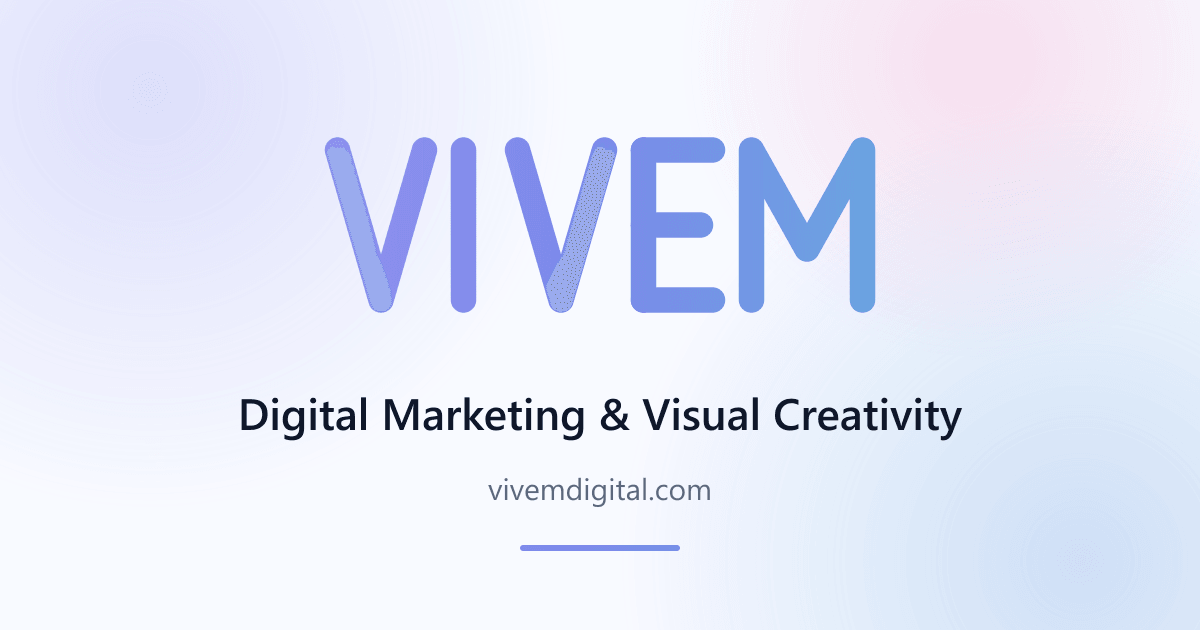
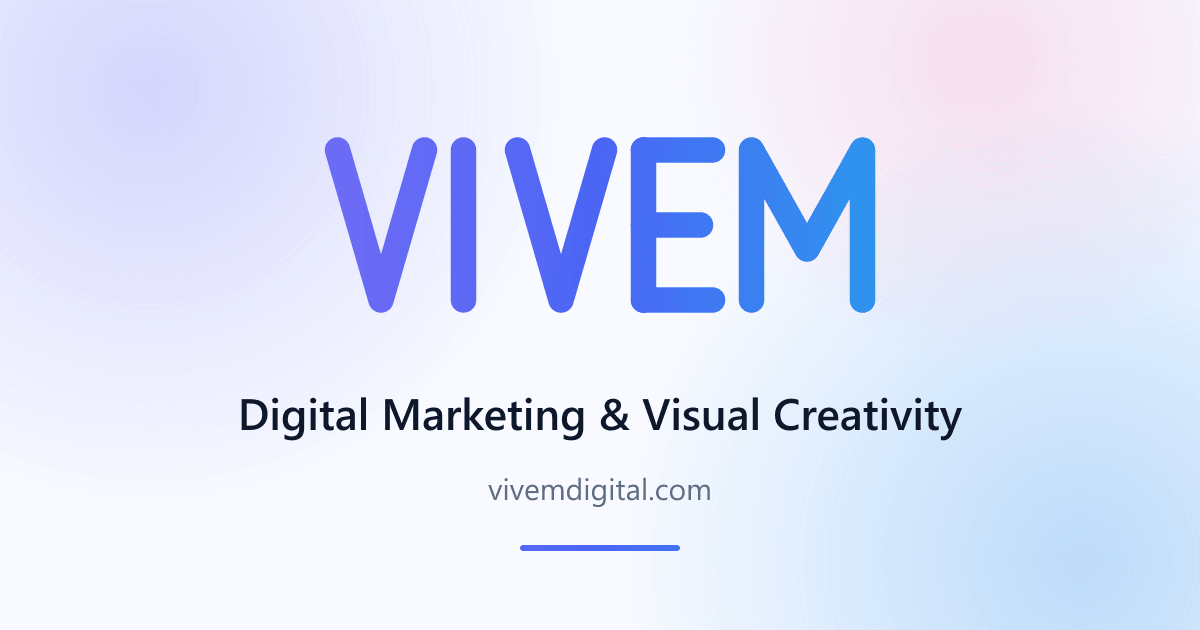
Re-saturate the narrowed palette: same close hue family, full vividness (no dimming); regenerate brand assets

Changed region(s): [[0.2467, 0.2111, 0.74, 0.5127], [0.4317, 0.8444, 0.5858, 0.8746]]

diff --git a/src/styles/tokens.css b/src/styles/tokens.css
@@ -5,9 +5,9 @@
 
 :root {
   /* -- Aurora palette (softened: closer hues, calmer saturation) ------------ */
-  --aurora-1: #8e90ee; /* violet       */
-  --aurora-2: #7a89ea; /* indigo-blue  */
-  --aurora-3: #6ba2e0; /* dusted cyan  */
+  --aurora-1: #6e6bf5; /* violet       */
+  --aurora-2: #4a66f5; /* indigo-blue  */
+  --aurora-3: #2f93ee; /* azure       */
   --accent: #ec4899;   /* pink touch   */
 
   /* Semantic ink & surfaces (light-only identity — no dark mode by decision) */
@@ -24,13 +24,13 @@
 
   /* Brand aliases (components reference these, never raw aurora stops) */
   --brand: var(--aurora-2);
-  --brand-strong: #4059c8;
-  --brand-soft: rgba(122, 137, 234, 0.10);
+  --brand-strong: #2563eb;
+  --brand-soft: rgba(74, 102, 245, 0.10);
   --on-brand: #ffffff;
 
   /* -- Gradients ----------------------------------------------------------- */
   --grad-aurora: linear-gradient(120deg, var(--aurora-1) 0%, var(--aurora-2) 48%, var(--aurora-3) 100%);
-  --grad-aurora-soft: linear-gradient(120deg, rgba(142, 144, 238, 0.09) 0%, rgba(122, 137, 234, 0.08) 48%, rgba(107, 162, 224, 0.11) 100%);
+  --grad-aurora-soft: linear-gradient(120deg, rgba(110, 107, 245, 0.09) 0%, rgba(74, 102, 245, 0.08) 48%, rgba(47, 147, 238, 0.11) 100%);
   --grad-aurora-animated: linear-gradient(120deg, var(--aurora-1), var(--aurora-2), var(--aurora-3), var(--aurora-1));
   --grad-accent: linear-gradient(120deg, var(--accent), var(--aurora-1));
 
@@ -74,11 +74,11 @@
   --r-full: 999px;
 
   /* -- Elevation (aurora-tinted, layered) ----------------------------------- */
-  --shadow-1: 0 1px 2px rgba(15, 23, 42, 0.05), 0 4px 12px rgba(122, 137, 234, 0.06);
-  --shadow-2: 0 2px 6px rgba(15, 23, 42, 0.06), 0 12px 32px rgba(122, 137, 234, 0.10);
-  --shadow-3: 0 4px 10px rgba(15, 23, 42, 0.07), 0 24px 56px rgba(122, 137, 234, 0.14);
-  --shadow-glow: 0 8px 30px rgba(122, 137, 234, 0.24);
-  --ring-focus: 0 0 0 3px rgba(122, 137, 234, 0.35);
+  --shadow-1: 0 1px 2px rgba(15, 23, 42, 0.05), 0 4px 12px rgba(74, 102, 245, 0.06);
+  --shadow-2: 0 2px 6px rgba(15, 23, 42, 0.06), 0 12px 32px rgba(74, 102, 245, 0.10);
+  --shadow-3: 0 4px 10px rgba(15, 23, 42, 0.07), 0 24px 56px rgba(74, 102, 245, 0.14);
+  --shadow-glow: 0 8px 30px rgba(74, 102, 245, 0.24);
+  --ring-focus: 0 0 0 3px rgba(74, 102, 245, 0.35);
 
   /* -- Motion ---------------------------------------------------------------- */
   --ease-out: cubic-bezier(0.22, 1, 0.36, 1);

diff --git a/src/styles/components/sections.css b/src/styles/components/sections.css
@@ -118,7 +118,7 @@
   inset: 0;
   background:
     radial-gradient(30rem 18rem at 20% 0%, rgba(255, 255, 255, 0.16), transparent 60%),
-    radial-gradient(26rem 18rem at 85% 100%, rgba(107, 162, 224, 0.26), transparent 60%);
+    radial-gradient(26rem 18rem at 85% 100%, rgba(47, 147, 238, 0.26), transparent 60%);
 }
 .stats .container {
   display: grid;
@@ -225,7 +225,7 @@
   height: 54px;
   border-radius: var(--r-md);
   background: var(--grad-aurora-soft);
-  border: 1px solid rgba(122, 137, 234, 0.14);
+  border: 1px solid rgba(74, 102, 245, 0.14);
   color: var(--brand);
   margin-block-end: var(--sp-4);
   transition: transform var(--t-med) var(--ease-out), background var(--t-med);
@@ -367,9 +367,9 @@
   overflow: hidden;
 }
 /* designed abstract covers per category (placeholder until real work arrives) */
-.portfolio-cover--design { background: linear-gradient(135deg, #8e90ee 0%, #7f7bee 55%, #ec4899 100%); }
-.portfolio-cover--development { background: linear-gradient(135deg, #7a89ea 0%, #5b94dd 60%, #6ba2e0 100%); }
-.portfolio-cover--marketing { background: linear-gradient(135deg, #6b8fe6 0%, #8e90ee 100%); }
+.portfolio-cover--design { background: linear-gradient(135deg, #6e6bf5 0%, #5648f0 55%, #ec4899 100%); }
+.portfolio-cover--development { background: linear-gradient(135deg, #4a66f5 0%, #1f8ae8 60%, #2f93ee 100%); }
+.portfolio-cover--marketing { background: linear-gradient(135deg, #4f6df2 0%, #6e6bf5 100%); }
 
 .portfolio-cover::before {
   content: '';

diff --git a/public/404.html b/public/404.html
@@ -21,7 +21,7 @@
 <style>
   /* Self-contained styles (404.html is served raw by GitHub Pages — no build) */
   :root {
-    --aurora-1: #8e90ee; --aurora-2: #7a89ea; --aurora-3: #6ba2e0;
+    --aurora-1: #6e6bf5; --aurora-2: #4a66f5; --aurora-3: #2f93ee;
     --bg: #f8faff; --surface: #ffffff; --ink: #0f172a; --ink-2: #334155; --ink-3: #5b6b83;
     --line: #e3e9f5; --line-strong: #cbd5ec;
     --grad: linear-gradient(120deg, var(--aurora-1), var(--aurora-2), var(--aurora-3));
@@ -82,7 +82,7 @@
 <main class="notfound">
   <svg class="nf-logo" viewBox="0 0 900 300" xmlns="http://www.w3.org/2000/svg" role="img" aria-label="VIVEM">
     <defs><linearGradient id="aurora" gradientUnits="userSpaceOnUse" x1="222.5" y1="0" x2="677.5" y2="0">
-      <stop offset="0" stop-color="#8e90ee"/><stop offset="0.5" stop-color="#7a89ea"/><stop offset="1" stop-color="#6ba2e0"/>
+      <stop offset="0" stop-color="#6e6bf5"/><stop offset="0.5" stop-color="#4a66f5"/><stop offset="1" stop-color="#2f93ee"/>
     </linearGradient></defs>
     <g fill="none" stroke="url(#aurora)" stroke-width="22.1" stroke-linecap="round" stroke-linejoin="round">
       <path d="M222.5 85.0 L260.2 215.0 L297.9 85.0"/>

diff --git a/src/styles/base.css b/src/styles/base.css
@@ -98,7 +98,7 @@ html[lang='ar'] .lang-en { display: none; }
 }
 .btn-primary:hover {
   transform: translateY(-2px);
-  box-shadow: 0 12px 40px rgba(142, 144, 238, 0.38);
+  box-shadow: 0 12px 40px rgba(110, 107, 245, 0.38);
   color: var(--on-brand);
 }
 /* sheen sweep on hover */
@@ -134,7 +134,7 @@ html[lang='ar'] .lang-en { display: none; }
   padding: 0.4rem 1rem;
   border-radius: var(--r-full);
   background: var(--brand-soft);
-  border: 1px solid rgba(122, 137, 234, 0.18);
+  border: 1px solid rgba(74, 102, 245, 0.18);
   color: var(--brand-strong);
   font-size: var(--fs-xs);
   font-weight: 600;
@@ -149,8 +149,8 @@ html[lang='ar'] .lang-en { display: none; }
   animation: pulse-dot 2.4s var(--ease-in-out) infinite;
 }
 @keyframes pulse-dot {
-  0%, 100% { box-shadow: 0 0 0 0 rgba(122, 137, 234, 0.4); }
-  50% { box-shadow: 0 0 0 5px rgba(122, 137, 234, 0); }
+  0%, 100% { box-shadow: 0 0 0 0 rgba(74, 102, 245, 0.4); }
+  50% { box-shadow: 0 0 0 5px rgba(74, 102, 245, 0); }
 }
 
 /* -- Section scaffolding (editorial system: numbered start-aligned heads) --- */

diff --git a/src/styles/components/contact-footer.css b/src/styles/components/contact-footer.css
@@ -129,7 +129,7 @@
 .form-group textarea:focus-visible {
   outline: none;
   border-color: var(--aurora-2);
-  box-shadow: 0 0 0 4px rgba(122, 137, 234, 0.14);
+  box-shadow: 0 0 0 4px rgba(74, 102, 245, 0.14);
 }
 
 .form-group.has-error input,
@@ -189,8 +189,8 @@
   position: absolute;
   inset: 0;
   background:
-    radial-gradient(38rem 20rem at 8% 0%, rgba(142, 144, 238, 0.22), transparent 60%),
-    radial-gradient(34rem 20rem at 95% 100%, rgba(107, 162, 224, 0.16), transparent 60%);
+    radial-gradient(38rem 20rem at 8% 0%, rgba(110, 107, 245, 0.22), transparent 60%),
+    radial-gradient(34rem 20rem at 95% 100%, rgba(47, 147, 238, 0.16), transparent 60%);
   pointer-events: none;
 }
 .site-footer .container {

diff --git a/src/styles/components/header-hero.css b/src/styles/components/header-hero.css
@@ -177,9 +177,9 @@
   inset: 0;
   z-index: var(--z-decor);
   background:
-    radial-gradient(42rem 42rem at 12% 8%, rgba(142, 144, 238, 0.14), transparent 65%),
-    radial-gradient(38rem 38rem at 88% 18%, rgba(107, 162, 224, 0.13), transparent 65%),
-    radial-gradient(46rem 40rem at 78% 92%, rgba(122, 137, 234, 0.12), transparent 65%),
+    radial-gradient(42rem 42rem at 12% 8%, rgba(110, 107, 245, 0.14), transparent 65%),
+    radial-gradient(38rem 38rem at 88% 18%, rgba(47, 147, 238, 0.13), transparent 65%),
+    radial-gradient(46rem 40rem at 78% 92%, rgba(74, 102, 245, 0.12), transparent 65%),
     radial-gradient(30rem 30rem at 18% 88%, rgba(236, 72, 153, 0.06), transparent 65%);
 }
 

diff --git a/src/styles/layout.css b/src/styles/layout.css
@@ -19,8 +19,8 @@
 /* soft alternating surface for rhythm between white sections */
 .section-alt {
   background:
-    radial-gradient(60rem 30rem at 110% -10%, rgba(107, 162, 224, 0.07), transparent 60%),
-    radial-gradient(50rem 28rem at -10% 110%, rgba(142, 144, 238, 0.07), transparent 60%),
+    radial-gradient(60rem 30rem at 110% -10%, rgba(47, 147, 238, 0.07), transparent 60%),
+    radial-gradient(50rem 28rem at -10% 110%, rgba(110, 107, 245, 0.07), transparent 60%),
     var(--surface);
   border-block: 1px solid var(--line);
 }
